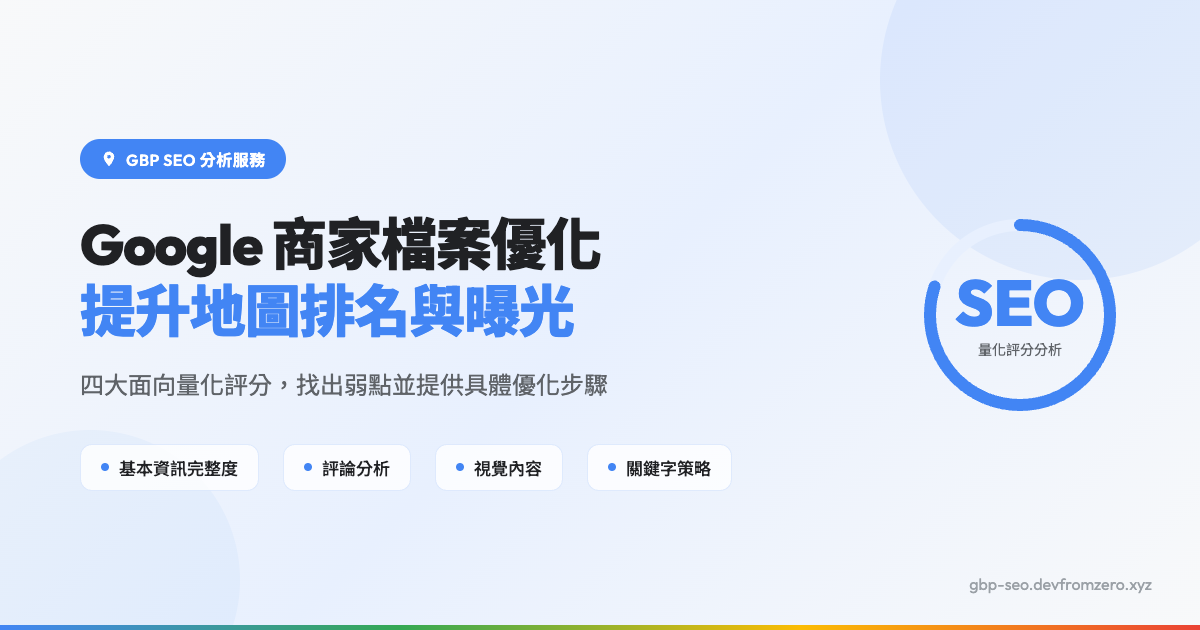
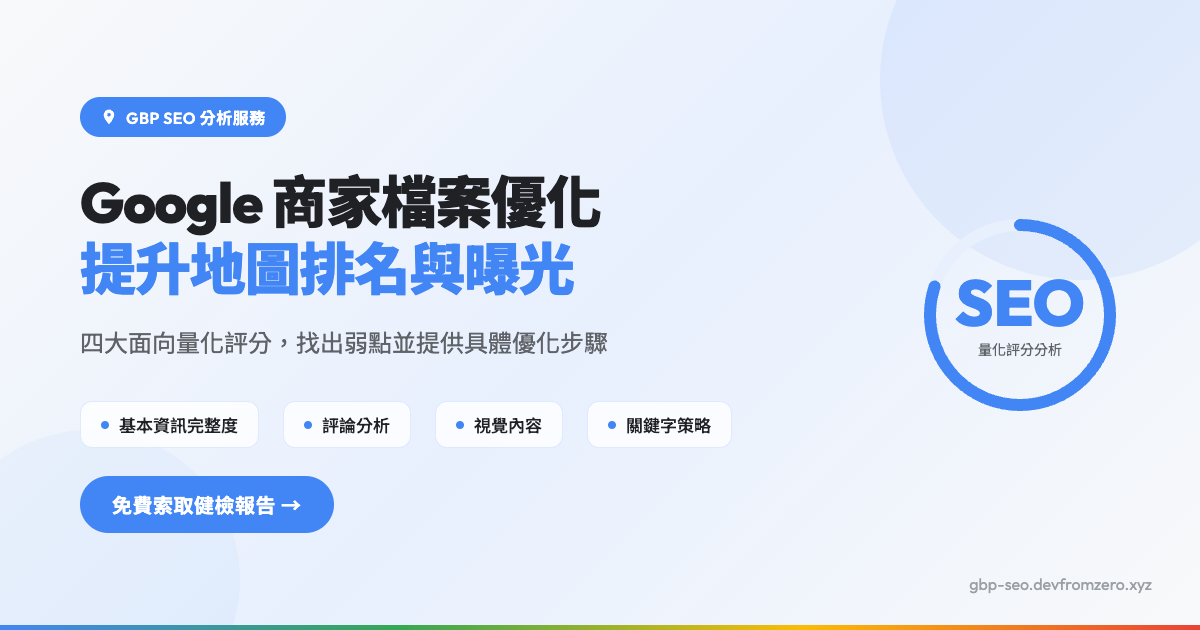
fix: optimize og:title length, og:description length, and add CTA to OG image
- og:title: 50-60 chars optimal range
- og:description: 110-160 chars optimal range
- OG image: added "免費索取健檢報告" CTA button

diff --git a/index.html b/index.html
@@ -14,8 +14,8 @@
 
   <!-- Open Graph -->
   <meta property="og:type" content="website">
-  <meta property="og:title" content="GBP SEO 分析服務 — Google 商家檔案優化，提升地圖排名與在地曝光">
-  <meta property="og:description" content="透過四大面向量化評分，分析你的 Google 商家檔案弱點並提供具體優化步驟。免費索取初步健檢報告。">
+  <meta property="og:title" content="GBP SEO 分析服務 — Google 商家檔案優化，提升地圖排名">
+  <meta property="og:description" content="透過基本資訊、評論、視覺內容、關鍵字策略四大面向量化評分，精準找出你的 Google 商家檔案弱點並提供可執行的優化步驟。免費索取初步健檢報告，立即提升在地搜尋曝光。">
   <meta property="og:url" content="https://gbp-seo.devfromzero.xyz/">
   <meta property="og:site_name" content="GBP SEO 分析服務">
   <meta property="og:locale" content="zh_TW">

diff --git a/template.html b/template.html
@@ -14,8 +14,8 @@
 
   <!-- Open Graph -->
   <meta property="og:type" content="website">
-  <meta property="og:title" content="GBP SEO 分析服務 — Google 商家檔案優化，提升地圖排名與在地曝光">
-  <meta property="og:description" content="透過四大面向量化評分，分析你的 Google 商家檔案弱點並提供具體優化步驟。免費索取初步健檢報告。">
+  <meta property="og:title" content="GBP SEO 分析服務 — Google 商家檔案優化，提升地圖排名">
+  <meta property="og:description" content="透過基本資訊、評論、視覺內容、關鍵字策略四大面向量化評分，精準找出你的 Google 商家檔案弱點並提供可執行的優化步驟。免費索取初步健檢報告，立即提升在地搜尋曝光。">
   <meta property="og:url" content="https://gbp-seo.devfromzero.xyz/">
   <meta property="og:site_name" content="GBP SEO 分析服務">
   <meta property="og:locale" content="zh_TW">
